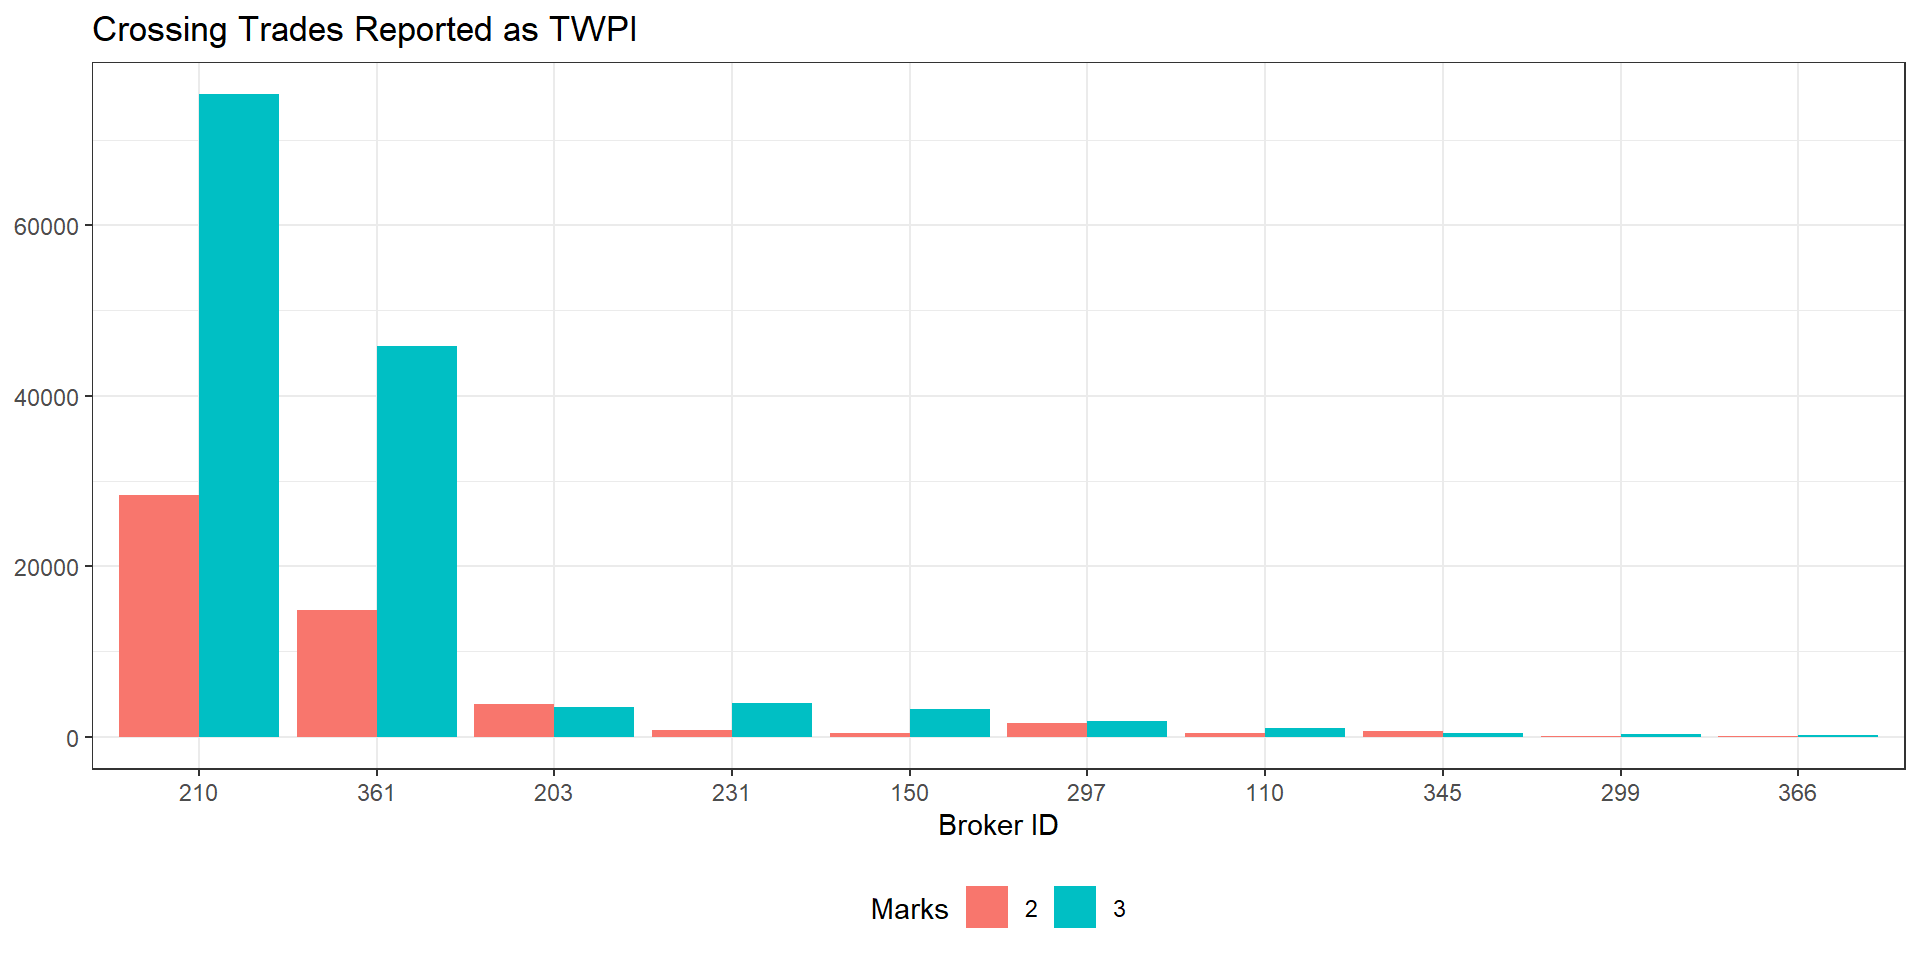
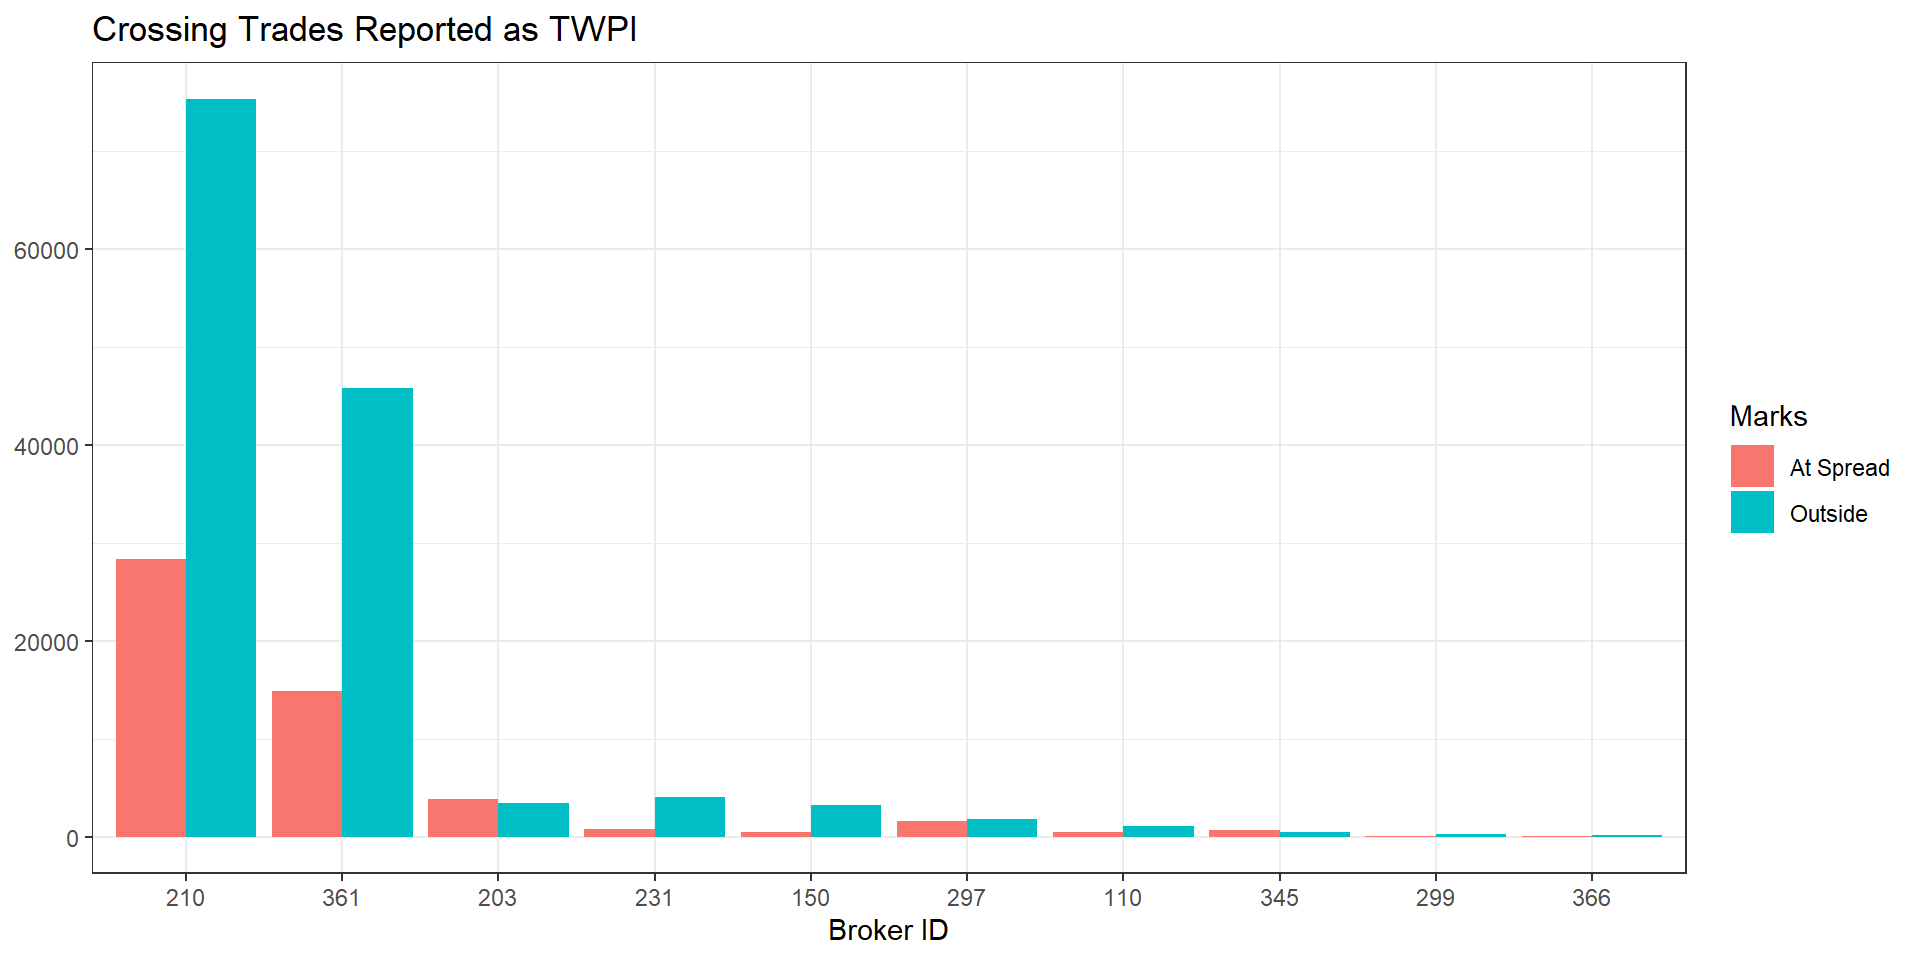
edit slide data and result

diff --git a/presentation.html b/presentation.html
@@ -445,8 +445,9 @@
 <li><p>out-of-hours trade: outside open-session</p></li>
 <li><p><strong>Trade with price improvement</strong>:</p>
 <ul>
-<li>Better price than the price on the open-market</li>
+<li>better price than what available on the lit-market</li>
 <li>benefit traders</li>
+<li>reported to ASX, not occurred on ASX. Hence, can be violated, e.g.&nbsp;reported as TWPI but actually traded at market price</li>
 </ul></li>
 </ol>
 </div>
@@ -461,7 +462,7 @@
 <div style="font-size:30px;">
 <p>Background:</p>
 <ol type="1">
-<li><code>Crossings at or within the spread</code> rule was introduced in the late 2011</li>
+<li><code>Crossings at or within the spread</code> rule was introduced in the late 2011.</li>
 <li>Amendment in May 2013 -&gt; <code>Trade with price improvement</code>
 <ul>
 <li>more trading in the lit market, ensuring better price and liquidity - <a href="https://asic.gov.au/about-asic/news-centre/find-a-media-release/2014-releases/14-105mr-asic-reports-on-dark-liquidity-rules/">ASIC Report 394</a></li>
@@ -478,8 +479,8 @@
 <section id="key-questions" class="slide level2">
 <h2>Key Questions</h2>
 <ol type="1">
-<li>Decline in the <code>crossings at best price</code> after 26 May 2013?</li>
-<li>How many violations on TWPI rule after the rule change?</li>
+<li>Are there any significant decrease on the number of <code>crossings at the spread</code> after the rule amendment on May 2013?</li>
+<li>How many <code>TWPI</code> violations after the rule change?</li>
 <li>Who did the violation?</li>
 <li>What conditions that make the violation occurred? Develop a model …</li>
 </ol>
@@ -488,14 +489,15 @@
 <h2>Data</h2>
 <ul>
 <li>ASX200 data from 2012 to 2015</li>
-<li>Source: SIRCA</li>
+<li>Source: Securities Industry Research Centre of Asia-Pacific (SIRCA)</li>
 <li>Extracted with Nectar Cloud Computing</li>
+<li>10Million+ of <code>TWPI</code> observations</li>
 </ul>
 <p>Nectar Cloud Computing</p>
 <div style="font-size:30px;">
 <ul>
-<li>aaaaa</li>
-<li>bbbbb</li>
+<li>Developed and maintained by Australian Research Data Commons (ARDC)</li>
+<li>Provide large scale computing infrastructure</li>
 </ul>
 </div>
 </section>
@@ -860,27 +862,26 @@
 </div>
 </div>
 </section>
-<section id="challenges" class="slide level2">
-<h2>Challenges</h2>
-<ul>
-<li>Latest open data available only until 2016</li>
-<li>Handling large amount of data need huge processing power</li>
-<li>Nectar can handle it, but …
-<ul>
-<li>still need days</li>
-<li>new issues every weeks</li>
-</ul></li>
-</ul>
-</section>
 <section id="result-and-discussion" class="slide level2">
 <h2>Result and Discussion</h2>
 <div class="columns">
-<div class="column" style="width:32%;">
+<div class="column" style="width:33%;">
 <div class="cell">
 <div class="cell-output-display">
 <table class="table caption-top" data-quarto-postprocess="true" style="font-size: 20px; width: auto !important; ">
+<colgroup>
+<col style="width: 33%">
+<col style="width: 33%">
+<col style="width: 33%">
+</colgroup>
 <thead>
 <tr class="header">
+<th data-quarto-table-cell-role="th" style="text-align: left; empty-cells: hide; border-bottom: hidden;"></th>
+<th colspan="2" data-quarto-table-cell-role="th" style="text-align: center; border-bottom: hidden; padding-bottom: 0; padding-left: 3px; padding-right: 3px;"><div style="border-bottom: 1px solid #ddd; padding-bottom: 5px; ">
+PERCENTAGE
+</div></th>
+</tr>
+<tr class="odd">
 <th style="text-align: left;" data-quarto-table-cell-role="th">Marks</th>
 <th style="text-align: right;" data-quarto-table-cell-role="th">Before</th>
 <th style="text-align: right;" data-quarto-table-cell-role="th">After</th>
@@ -888,17 +889,17 @@
 </thead>
 <tbody>
 <tr class="odd">
-<td style="text-align: left;">1</td>
+<td style="text-align: left;">Within</td>
 <td style="text-align: right;">46.94</td>
 <td style="text-align: right;">95.54</td>
 </tr>
 <tr class="even">
-<td style="text-align: left;">2</td>
+<td style="text-align: left;">At Spread</td>
 <td style="text-align: right;">52.00</td>
 <td style="text-align: right;">1.23</td>
 </tr>
 <tr class="odd">
-<td style="text-align: left;">3</td>
+<td style="text-align: left;">Outside</td>
 <td style="text-align: right;">1.05</td>
 <td style="text-align: right;">3.23</td>
 </tr>
@@ -916,45 +917,45 @@
 <th style="text-align: left;" data-quarto-table-cell-role="th">Broker Type</th>
 <th style="text-align: right;" data-quarto-table-cell-role="th">TWPI</th>
 <th style="text-align: right;" data-quarto-table-cell-role="th">Violation</th>
-<th style="text-align: right;" data-quarto-table-cell-role="th">Percentage</th>
+<th style="text-align: center;" data-quarto-table-cell-role="th">Percent</th>
 </tr>
 </thead>
 <tbody>
 <tr class="odd">
 <td style="text-align: left;">HFT-Broker</td>
-<td style="text-align: right;">2014948</td>
-<td style="text-align: right;">108635</td>
-<td style="text-align: right;">5.39</td>
+<td style="text-align: right;">2,014,948</td>
+<td style="text-align: right;">108,635</td>
+<td style="text-align: center;">5.39</td>
 </tr>
 <tr class="even">
 <td style="text-align: left;">HFT-Prop</td>
-<td style="text-align: right;">261795</td>
-<td style="text-align: right;">7309</td>
-<td style="text-align: right;">2.79</td>
+<td style="text-align: right;">261,795</td>
+<td style="text-align: right;">7,309</td>
+<td style="text-align: center;">2.79</td>
 </tr>
 <tr class="odd">
 <td style="text-align: left;">Institution</td>
-<td style="text-align: right;">1916287</td>
-<td style="text-align: right;">71323</td>
-<td style="text-align: right;">3.72</td>
+<td style="text-align: right;">1,916,287</td>
+<td style="text-align: right;">71,323</td>
+<td style="text-align: center;">3.72</td>
 </tr>
 <tr class="even">
 <td style="text-align: left;">Retail-Discount</td>
-<td style="text-align: right;">6126</td>
+<td style="text-align: right;">6,126</td>
 <td style="text-align: right;">113</td>
-<td style="text-align: right;">1.84</td>
+<td style="text-align: center;">1.84</td>
 </tr>
 <tr class="odd">
 <td style="text-align: left;">Retail-Full Service</td>
-<td style="text-align: right;">2445</td>
+<td style="text-align: right;">2,445</td>
 <td style="text-align: right;">86</td>
-<td style="text-align: right;">3.52</td>
+<td style="text-align: center;">3.52</td>
 </tr>
 <tr class="even">
 <td style="text-align: left;">Unclassified</td>
-<td style="text-align: right;">5709</td>
+<td style="text-align: right;">5,709</td>
 <td style="text-align: right;">250</td>
-<td style="text-align: right;">4.38</td>
+<td style="text-align: center;">4.38</td>
 </tr>
 </tbody>
 </table>
@@ -962,11 +963,12 @@
 
 </div>
 </div>
-</div><div class="column" style="width:68%;">
-<div style="font-size: 30px;">
+</div><div class="column" style="width:67%;">
+<div style="font-size: 25px;">
 <ul>
-<li>13% of reported TWPIs violated the rule</li>
-<li>HFT Brokers have done the most TWPI, as well as violation</li>
+<li>Significant decrease on the number of <code>crossings at the spread</code> TWPI after the rule change, from 52% to 1.23% -&gt; more trades on ASX platform, more fees</li>
+<li>Violation of the rule increased from 1.05% to approximately 4.46% after the rule change -&gt; still marginal</li>
+<li>HFT Brokers have done the most TWPI, as well as violation. Look closer at individual brokers:</li>
 </ul>
 </div>
 <div class="cell">
